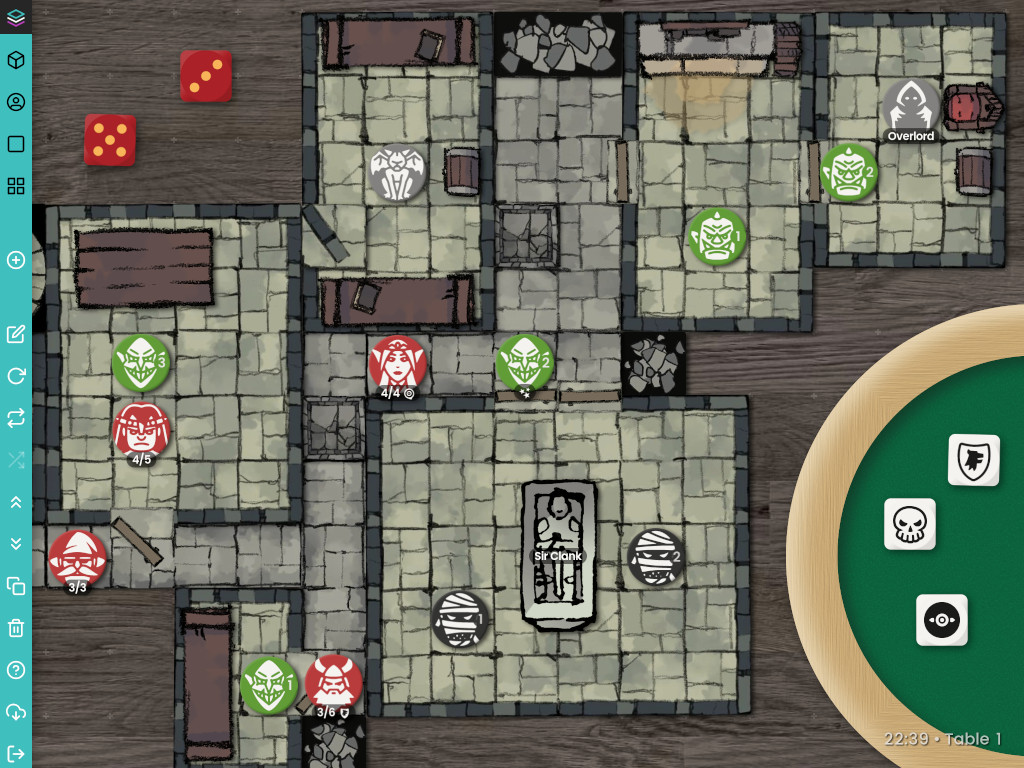
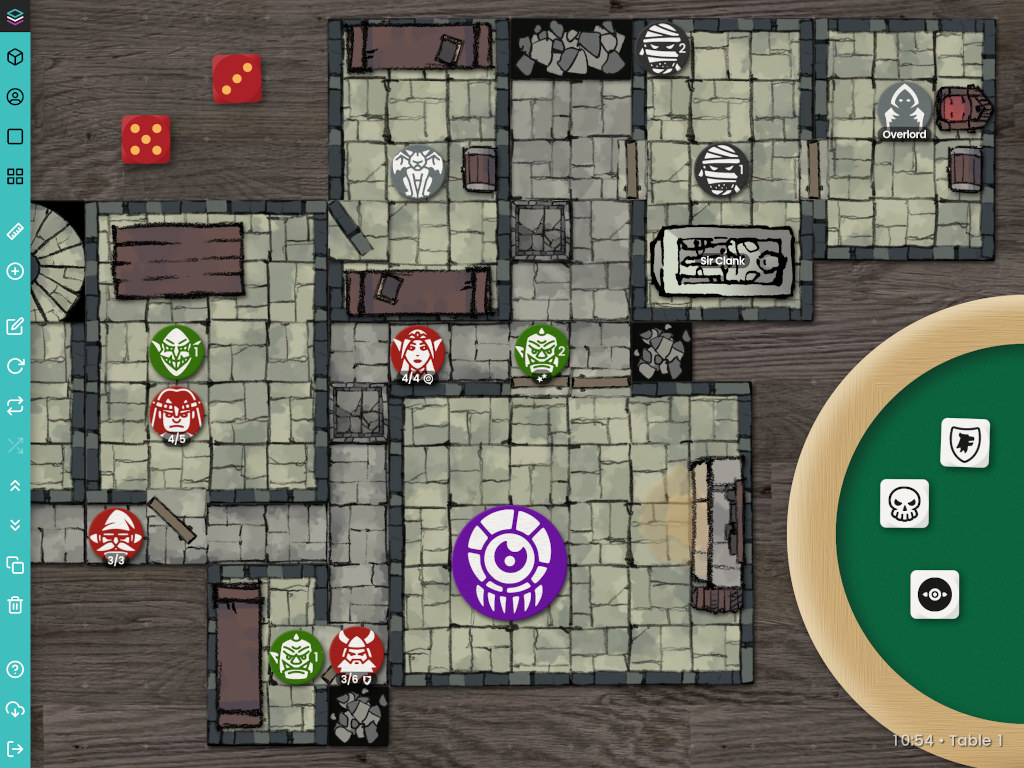
updated screenshots & bumped version

diff --git a/docs/roadmap.md b/docs/roadmap.md
@@ -12,7 +12,7 @@ This document is part of the [FreeBeeGee documentation](DOCS.md). It contains a 
 * [X] add separate color sets in templates for piece's borders and backgrounds
 * [X] add hotkeys to flip/rotate backwards
 * [X] generate average piece color during upload
-* [ ] pre-release
+* [X] pre-release
   * [X] bump dependencies
   * [X] bugfixes + refactoring
     * [X] "RPG" template glass tiles transparency
@@ -29,14 +29,16 @@ This document is part of the [FreeBeeGee documentation](DOCS.md). It contains a 
     * [X] document how to run tests
     * [X] add more PHP unit tests
     * [X] add more JS unit tests
-    * [ ] add more integration/API tests
-  * [ ] bump version/codename & update CHANGELOG
-  * [ ] update screenshots
+  * [X] bump version/codename & update CHANGELOG
+  * [X] update screenshots
 
 ## Backlog (unsorted)
 
 ### rather sooner
 
+* [ ] fix unselect sometimes not updating icons
+* [ ] add more integration/API tests (edge cases during CRUD)
+* [ ] system assets (always there, not part of template)
 * [ ] table passwords
 * [ ] use 'v' to paste / clone
 * [ ] automated deployment tests for new zip/tgz packages after build
